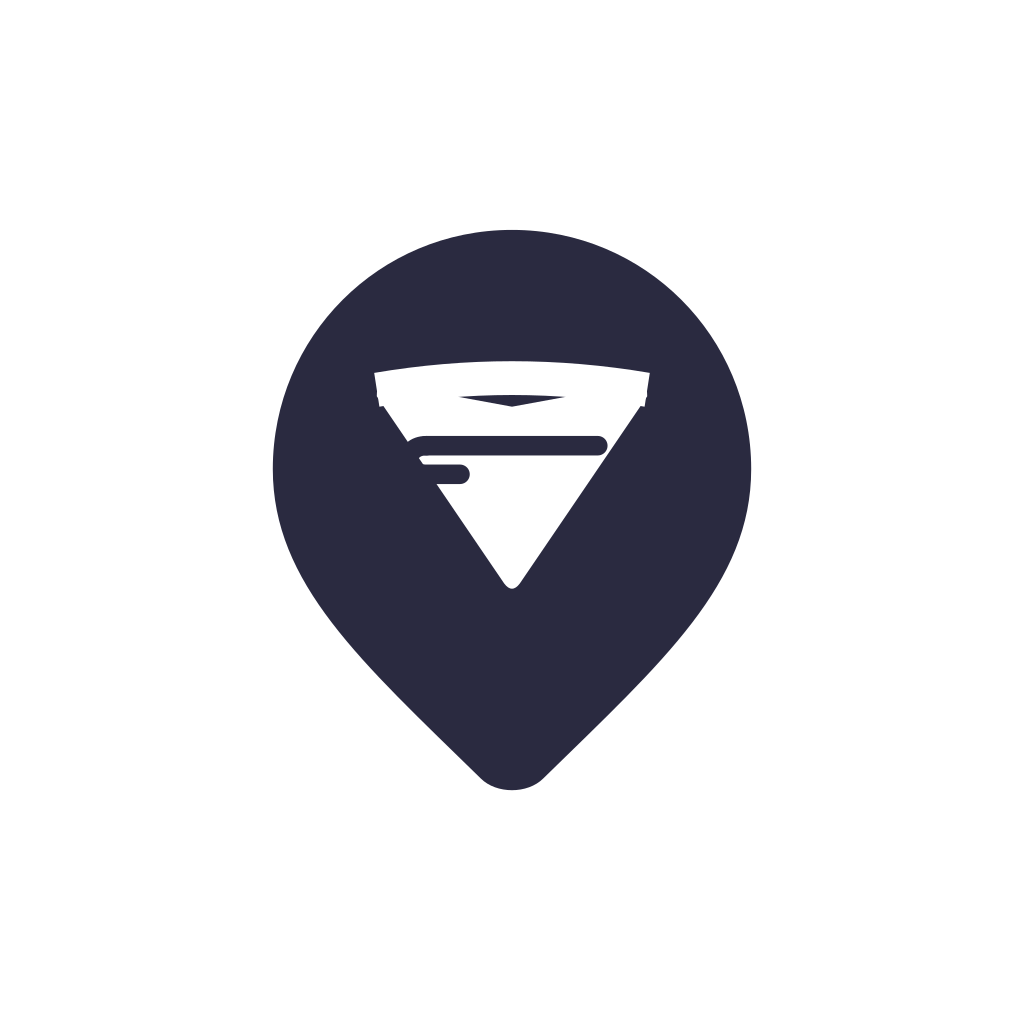
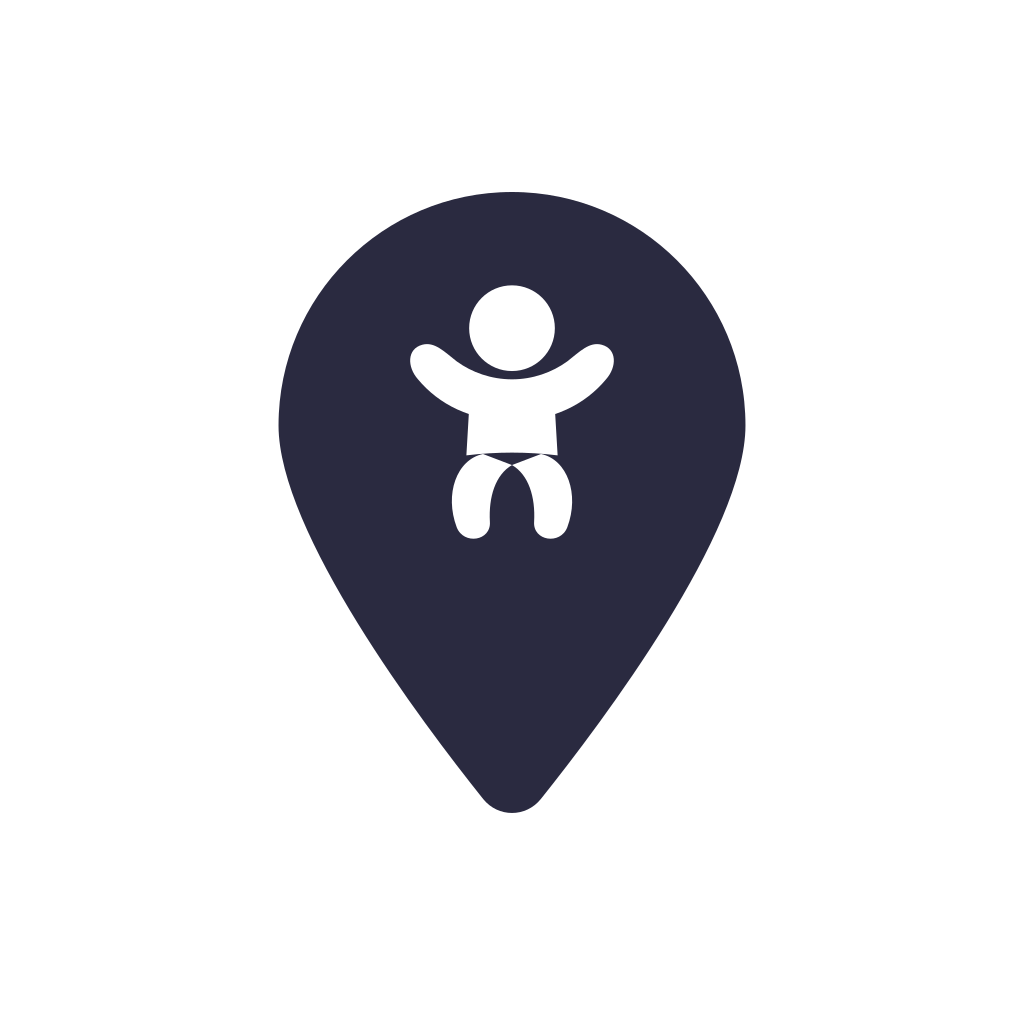
fix(format): SDK-Floor auf 3.7 -> stabiler tall-style Formatter
Root-Cause: dart format leitet den Stil aus environment.sdk ab.
Bei >=3.4 erzwang der Runner den alten (short) Stil und meldete 3 Dateien
als non-konform, obwohl lokal (neuer Stil) grün. Mit >=3.7 nutzen lokal
und CI konsistent den tall-style. Dateien entsprechend reformatiert.

diff --git a/lib/features/map/presentation/place_detail_sheet.dart b/lib/features/map/presentation/place_detail_sheet.dart
@@ -24,9 +24,10 @@ class PlaceDetailSheet extends StatelessWidget {
           if (place.wheelchairAccessible != null)
             _InfoRow(
               icon: Icons.accessible,
-              label: place.wheelchairAccessible!
-                  ? 'Barrierefrei zugänglich'
-                  : 'Nicht barrierefrei',
+              label:
+                  place.wheelchairAccessible!
+                      ? 'Barrierefrei zugänglich'
+                      : 'Nicht barrierefrei',
             ),
           if (place.fee != null)
             _InfoRow(
@@ -35,9 +36,10 @@ class PlaceDetailSheet extends StatelessWidget {
             ),
           _InfoRow(
             icon: Icons.source_outlined,
-            label: place.source == PlaceSource.osm
-                ? 'Quelle: OpenStreetMap'
-                : 'Quelle: Community',
+            label:
+                place.source == PlaceSource.osm
+                    ? 'Quelle: OpenStreetMap'
+                    : 'Quelle: Community',
           ),
         ],
       ),

diff --git a/lib/features/map/presentation/map_screen.dart b/lib/features/map/presentation/map_screen.dart
@@ -56,16 +56,17 @@ class _MapScreenState extends ConsumerState<MapScreen> {
           ),
         ],
       ),
-      floatingActionButton: placesAsync.isLoading
-          ? const FloatingActionButton(
-              onPressed: null,
-              child: SizedBox(
-                width: 22,
-                height: 22,
-                child: CircularProgressIndicator(strokeWidth: 2),
-              ),
-            )
-          : null,
+      floatingActionButton:
+          placesAsync.isLoading
+              ? const FloatingActionButton(
+                onPressed: null,
+                child: SizedBox(
+                  width: 22,
+                  height: 22,
+                  child: CircularProgressIndicator(strokeWidth: 2),
+                ),
+              )
+              : null,
     );
   }
 

diff --git a/test/widget/map_screen_test.dart b/test/widget/map_screen_test.dart
@@ -32,9 +32,7 @@ void main() {
     );
 
     await tester.pumpWidget(
-      const MaterialApp(
-        home: Scaffold(body: PlaceDetailSheet(place: place)),
-      ),
+      const MaterialApp(home: Scaffold(body: PlaceDetailSheet(place: place))),
     );
 
     expect(find.text('Café Klein'), findsOneWidget);
@@ -50,9 +48,7 @@ void main() {
     const place = ChangingPlace(id: 'node/2', location: LatLng(1, 2));
 
     await tester.pumpWidget(
-      const MaterialApp(
-        home: Scaffold(body: PlaceDetailSheet(place: place)),
-      ),
+      const MaterialApp(home: Scaffold(body: PlaceDetailSheet(place: place))),
     );
 
     expect(find.text('Wickelplatz'), findsOneWidget);

diff --git a/lib/core/theme/app_theme.dart b/lib/core/theme/app_theme.dart
@@ -26,9 +26,8 @@ abstract final class AppTheme {
     return ThemeData(
       useMaterial3: true,
       colorScheme: scheme,
-      scaffoldBackgroundColor: brightness == Brightness.light
-          ? AppColors.surface
-          : null,
+      scaffoldBackgroundColor:
+          brightness == Brightness.light ? AppColors.surface : null,
       appBarTheme: const AppBarTheme(centerTitle: true),
     );
   }

diff --git a/brand/README.md b/brand/README.md
@@ -7,13 +7,22 @@ ist [`DESIGN-BRIEF.md`](DESIGN-BRIEF.md).
 
 | Datei | Zweck |
 |---|---|
-| `logo.svg` | **Master-Bildmarke** (freigestellt) — Standort-Pin mit gefalteter Windel + Sicherheitsnadel |
+| `logo.svg` | **Master-Bildmarke** (freigestellt) — Standort-Pin mit sitzendem Baby, weiße Windel |
 | `app-icon-foreground.svg` | Adaptive-Icon **Vordergrund**, Motiv in zentraler 66 %-Safe-Zone, transparente Ränder |
 | `app-icon-background.svg` | Adaptive-Icon **Hintergrund**, full-bleed (surface → accent-soft) |
 | `app-icon-monochrome.svg` | **Einfarbige** Silhouette für Android-13-Themed-Icons & Wasserzeichen |
 | `render/*.png` | Gerenderte 1024²-PNGs — **versioniert**, dienen als Input für `flutter_launcher_icons` |
 | `render/preview.png` | App-Icon-Vorschau (Vordergrund über Hintergrund) |
 | `render.mjs` | Renderskript (SVG → PNG via `sharp`) |
+
+## Motiv & Lizenz
+
+Die Bildmarke ist **vollständig eigenständig gezeichnet** (eigene SVG-Pfade): ein Standort-Pin
+(Tropfenkontur) mit einem sitzenden Baby im Kopf. Der **Windelbereich** (Becken/Schritt) ist in
+**Weiß** hervorgehoben und hebt sich minimal vom soft-Rosé des Babys ab.
+
+> Keine Fremd-Icons, **keine Font-Awesome-/CC-BY-Bindung** — die Grafik unterliegt der
+> Projektlizenz (siehe `../LICENSE`). Frei nutz- und veränderbar ohne Attributionspflicht Dritter.
 
 ## Farbpalette „Sanft & modern"
 
